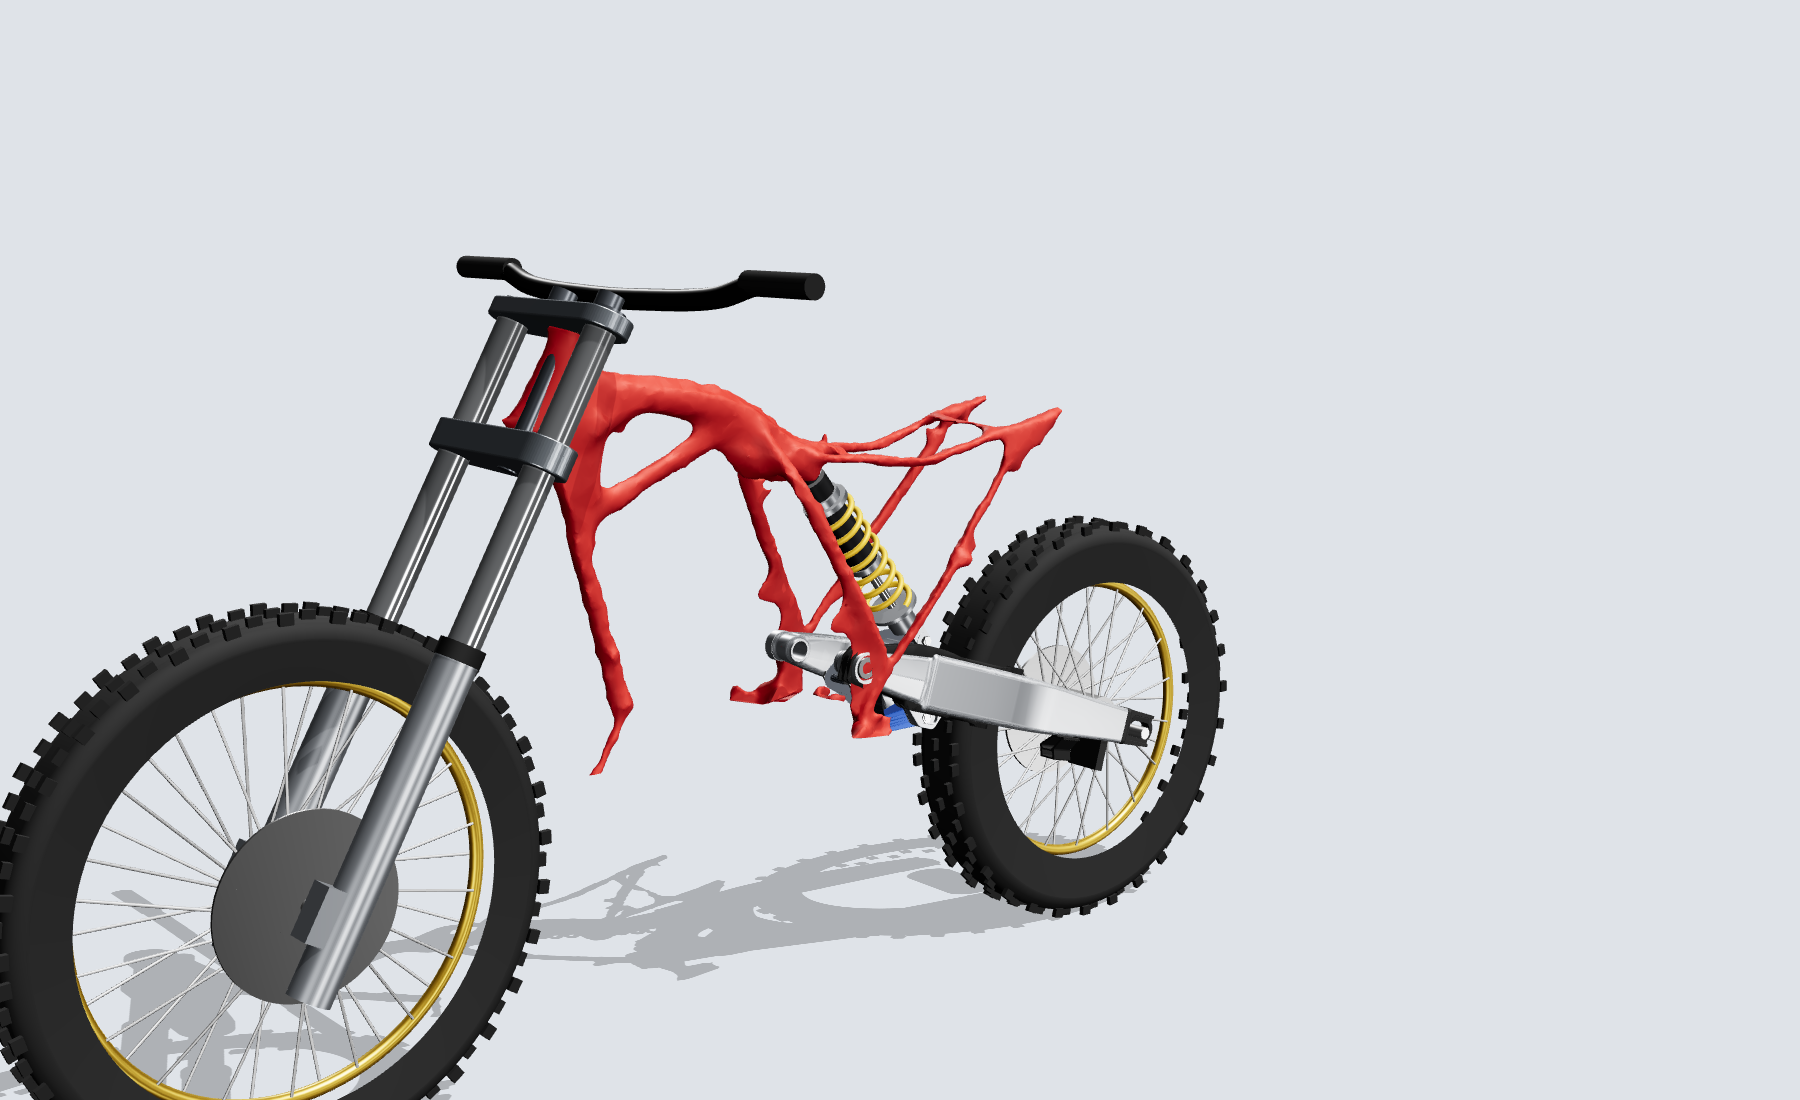
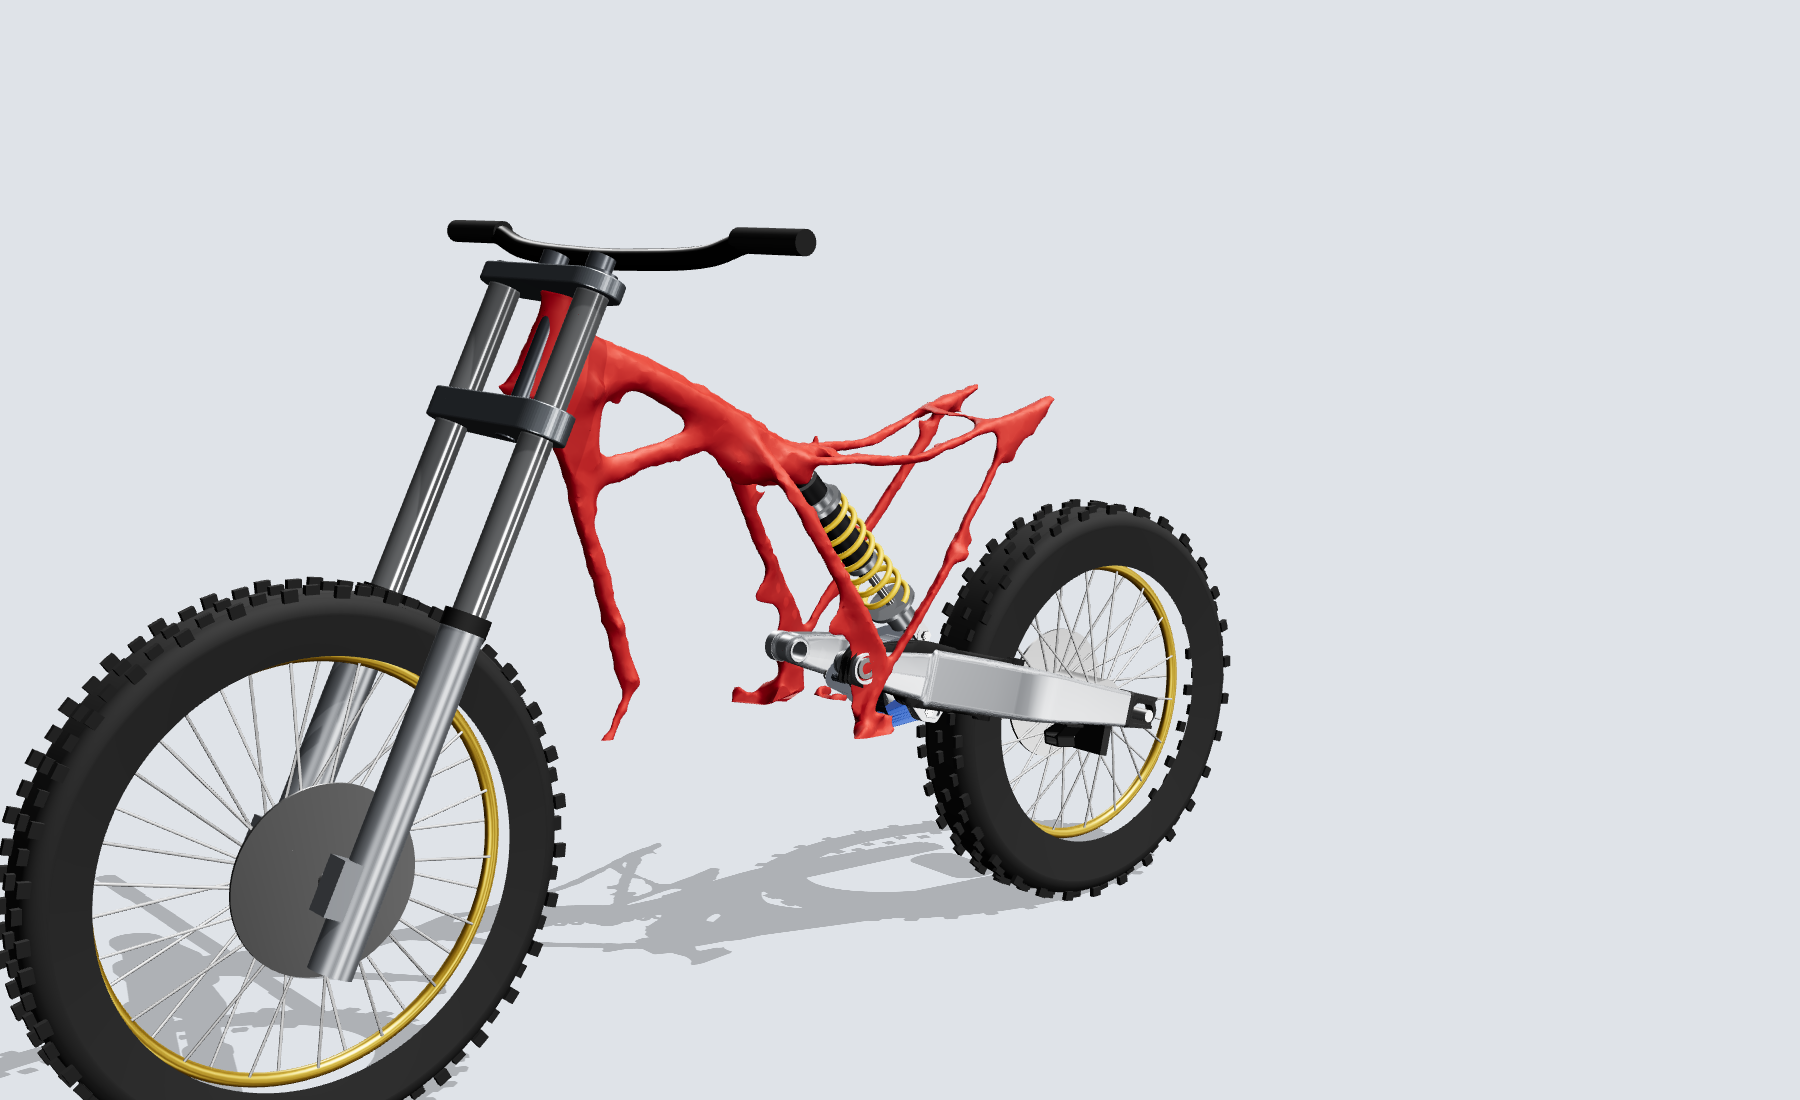
Render: frame scan back to its true shape (no bend), bench fork settings
Claude-Session: https://claude.ai/code/session_01EhMcsCxbaz5LuQ9ftYg4nN

Changed region(s): [[0.0, 0.1855, 0.6844, 1.0]]

diff --git a/files/rear-render/page.html b/files/rear-render/page.html
@@ -12,7 +12,7 @@ function front(opt){
   // bottom yoke), slide 0, spacer 50, offset 47 total, fork 935, front sag 74. Head tube placed on the frame scan's head tube.
   const rho=(opt.rho??27.5)*Math.PI/180;
   const u=[Math.sin(rho),-Math.cos(rho)], f=[Math.cos(rho),Math.sin(rho)];
-  const HEAD=128, bot=[516,365]; const top=[bot[0]-HEAD*u[0],bot[1]-HEAD*u[1]];  // bench head tube: bottom 516 fwd / 365 up, 150 raw x 0.853 long
+  const top=[455-25*f[0],575-25*f[1]], HEAD=145;  // head tube top centre off the frame scan (unbent)
   const offset=opt.offset??47, yokeOff=20, axleFwd=offset-yokeOff, halfSpan=105;
   const stack=215, slide=opt.slide??0, spacer=opt.spacer??50, sag=opt.fsag??74;
   const botYokeZ=-(HEAD+15+36), Hz=botYokeZ;           // local Z (up the axis) of the bottom yoke underside

diff --git a/files/rear-render/build.py b/files/rear-render/build.py
@@ -95,7 +95,7 @@ def arm_parts(beta):
 scan = trimesh.load('/mnt/project-files/frame-scan/fusion/xl125r-frame-scan-full.stl')
 v = scan.vertices.copy(); x = v[:, 0]
 v[:, 1] -= 0.13*np.clip(-60 - x, 0, None)*np.clip((v[:, 2] - 60)/120, 0, 1)
-if BENCH:   # move the scan's head tube onto the bench's (bottom 516 fwd / 365 up vs the scan's ~499 / 435), blended in from x 150 to 430
+if False:   # (removed 31 Oct, Joel: frame went bendy) move the scan's head tube onto the bench's (bottom 516 fwd / 365 up vs the scan's ~499 / 435), blended in from x 150 to 430
     wgt = np.clip((x - 150)/280, 0, 1); wgt = wgt*wgt*(3 - 2*wgt)
     v[:, 0] += 17*wgt; v[:, 2] += -70*wgt
 scan.vertices = v

diff --git a/files/rear-render/README.md b/files/rear-render/README.md
@@ -16,7 +16,7 @@ Joel's CRF250R arm (from his STEP model), his v2 windowed rocker (traced from hi
 - [Animation, both ends droop to bump (GIF)](https://raw.githubusercontent.com/Blevo66/chassis-bench/claude/project-thread-bk4fwa/files/rear-render/render-bike-travel.gif)
 - [Three-quarter rear](https://raw.githubusercontent.com/Blevo66/chassis-bench/claude/project-thread-bk4fwa/files/rear-render/render-bike-rear.png)
 
-Whole-bike renders follow Joel's Chassis Bench (saved settings, 31 Oct): head tube at the bench's spot (bottom 516 mm ahead / 365 up from the pivot, 27.5 deg to the frame vertical; the scan's head tube is moved ~70 mm down to meet it), stack 215, slide 0, 50 mm spacer, 47 mm total offset, 935 mm fork, 74 mm front and 79 mm rear sag, and the arm lug at the bench's 200 / 50 (arm model shifted ~10 mm to suit). Result at sag: about 29.4 deg head angle, 141 mm trail, 1413 mm wheelbase (bench: 29.1 / 139 / 1403). The animation keeps the tyres on the floor and lets the bike come down through 250 mm front and 265 mm rear travel. Tube spacing (210 mm), yoke shapes and bars are stand-ins.
+Whole-bike renders use Joel's Chassis Bench fork settings (50 mm spacer, 47 mm total offset, stack 215, slide 0, 935 mm fork, 27.5 deg to the frame vertical, 74 mm front / 79 mm rear sag) and the bench's arm lug (200 / 50; arm model shifted ~10 mm to suit), on the frame scan's own head tube (not bent). The scan's head tube is ~662 mm from the pivot to its bottom; the bench's is 632 (fitted, not measured), which is why the bench reads steeper. Result at sag: about 26.6 deg head angle, 121 mm trail, 1398 mm wheelbase (bench: 29.1 / 139 / 1403). The animation keeps the tyres on the floor. Tube spacing (210 mm), yoke shapes and bars are stand-ins.
 
 Notes (rear-only renders above): the linkage is solved with the arm model's own lug hole, which is 209 mm along and 56 mm below the arm line. Joel's tape on his arm said 200 / 50. With the model's lug the arm tops out at 28.4 deg down (not ~24), with 252 mm vertical wheel travel and about 30% rising rate. Shock details (clevis, seat at ~72 mm, ~78 mm OD spring) are estimates.
 
